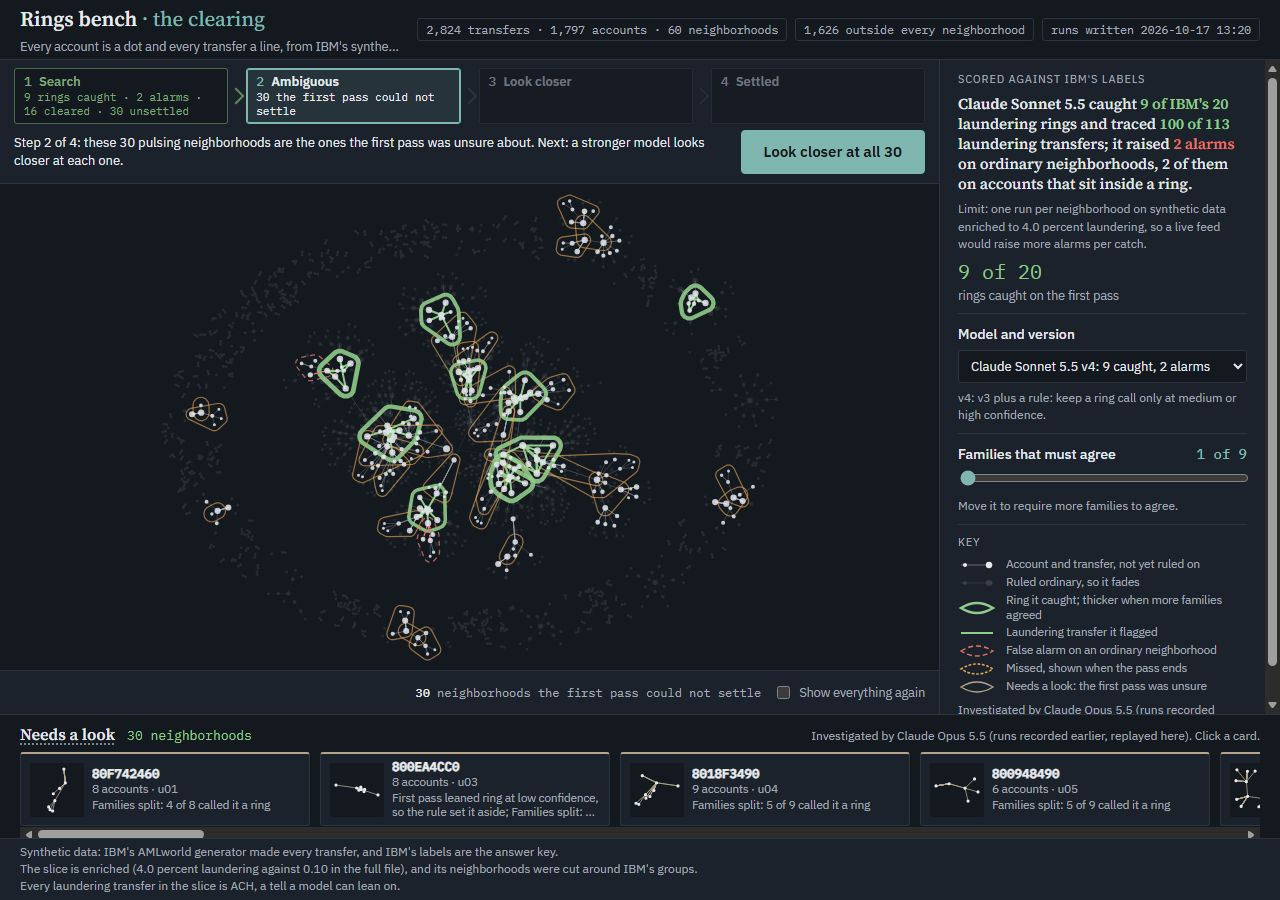
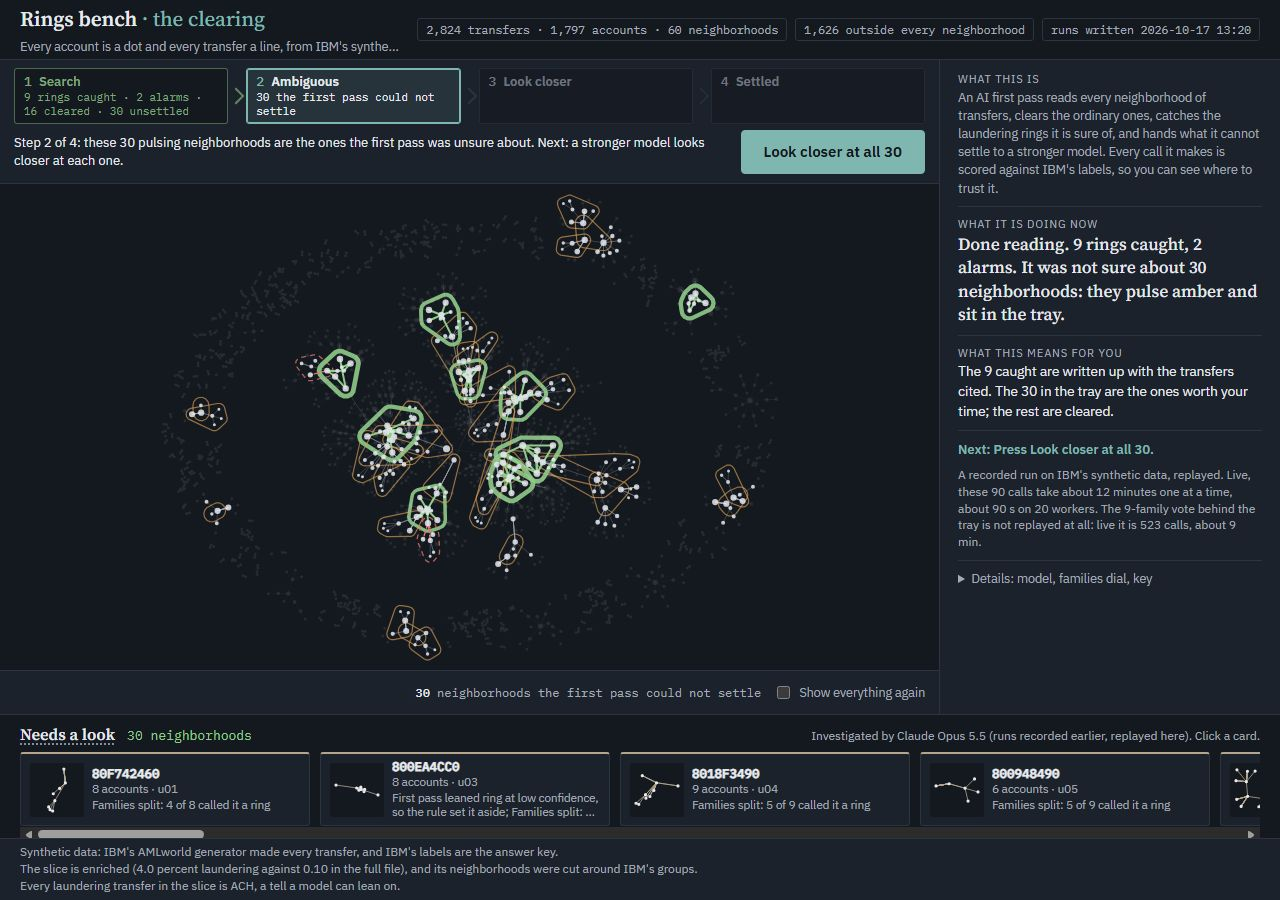
Side rail: what this is, what it is doing now, what it means for you, next; playback speed vs live; details collapsed

Changed region(s): [[0.75, 0.0622, 1.0, 0.7467], [0.75, 0.6222, 0.9375, 0.8089]]

diff --git a/rings_bench/ui/variants/clearing2d/clearing.js b/rings_bench/ui/variants/clearing2d/clearing.js
@@ -373,10 +373,10 @@ function renderClock() {
   const lookN = T.status.filter(x => x === 'look').length; const inv = Object.keys(INV).filter(id => landed(id, now)).length;
   let html;
   if (ST.stage === 0) html = 'The whole slice, lit · <b>' + UNITS.length + '</b> neighborhoods to read';
-  else if (ST.stage === 1) html = (ST.t < HOLD + FADE ? 'Transfers outside the neighborhoods step back' : 'Reading ' + esc((UNITS[Math.max(0, readN - 1)] || {}).id)) + ' · read <b>' + readN + ' of ' + UNITS.length + '</b>';
+  else if (ST.stage === 1) html = (ST.t < HOLD + FADE ? 'Transfers outside the neighborhoods step back' : 'Reading ' + esc((UNITS[Math.max(0, readN - 1)] || {}).id)) + ' · read <b>' + readN + ' of ' + UNITS.length + '</b> · ' + esc(speedLine(1));
   else if (ST.before) html = '<b>Before</b> · <b>' + lookN + '</b> neighborhoods the first pass could not settle';
   else if (ST.stage === 2) html = trayApplies(ST.sel) ? '<b>' + lookN + '</b> neighborhoods the first pass could not settle' : 'The tray is recorded for Claude Sonnet 5.5 v4 only';
-  else if (ST.stage === 3) html = 'Investigated <b>' + inv + ' of ' + lookN + '</b>';
+  else if (ST.stage === 3) html = 'Investigated <b>' + inv + ' of ' + lookN + '</b> · ' + esc(speedLine(3));
   else html = closingLine();
   $('#clock').innerHTML = html;
   renderFunnel();
@@ -395,6 +395,58 @@ function renderFunnel() {
   const human = s.k + (tray && INVD ? TRAY.filter(x => INVD.results && INVD.results[x.unit] && truthy(INVD.results[x.unit].ring_found)).length : 0);
   $('#fc4').textContent = box >= 4 ? human + ' rings for a human · ' + s.f + (s.f === 1 ? ' alarm' : ' alarms') + ' · ' + (NR - human) + ' missed' : '';
   $('#caption').textContent = captionText(lookN, human);
+  renderRail(lookN, human, caught, alarms, cleared, inv);
+}
+/* the side rail: what this is, what it is doing now, what it means for you, what to press next */
+function renderRail(lookN, human, caught, alarms, cleared, inv) {
+  const s = ST.sel; const tray = trayApplies(s); const n = ST.before ? 2 : ST.stage;
+  const fa = tray && INVD && INVD.results ? TRAY.filter(x => x.expected !== 'ring' && INVD.results[x.unit] && INVD.results[x.unit].verdict === 'ring').length : 0;
+  let readN = 0; TL.read.forEach(r => { if (ST.t >= r) readN++; });
+  let now = '', tally = '', you = '', next = '';
+  if (n === 0) { now = 'Nothing read yet. ' + UNITS.length + ' neighborhoods, ' + num(TR.length) + ' transfers, all lit.'; you = 'Without this you read all ' + UNITS.length + '.'; next = 'Press Start the search.'; }
+  else if (n === 1) { now = 'Reading neighborhood ' + Math.max(1, readN) + ' of ' + UNITS.length + '. Ordinary ones fade. Rings it catches trace green in place.'; tally = 'caught ' + caught + ' · alarms ' + alarms + ' · cleared ' + cleared; you = 'Without this you read all ' + UNITS.length + '.'; next = ST.playing ? 'Watch it read, or press Skip to the end of the search.' : 'Press Continue the search.'; }
+  else if (n === 2) {
+    now = 'Done reading. ' + s.k + (s.k === 1 ? ' ring' : ' rings') + ' caught, ' + s.f + (s.f === 1 ? ' alarm' : ' alarms') + '.' + (tray ? ' It was not sure about ' + lookN + ' neighborhoods: they pulse amber and sit in the tray.' : '');
+    you = tray ? 'The ' + s.k + ' caught are written up with the transfers cited. The ' + lookN + ' in the tray are the ones worth your time; the rest are cleared.' : 'The ' + s.k + ' caught are written up with the transfers cited. The closer look is recorded for Claude Sonnet 5.5 v4; pick it under Details to continue.';
+    next = ST.before ? 'Switch to After to see them settled.' : tray ? 'Press Look closer at all ' + lookN + '.' : 'Pick Claude Sonnet 5.5 v4 under Details.';
+  }
+  else if (n === 3) { now = 'A stronger model is reading the ' + lookN + ', one at a time. Each is cleared or confirmed as a ring.'; tally = inv + ' of ' + lookN; you = 'Watch the tray shrink: cleared ones leave your list, confirmed ones join the rings.'; next = 'Watch the tray; it settles by itself.'; }
+  else {
+    const al = s.f + fa;
+    now = 'Settled. ' + human + ' rings and ' + al + (al === 1 ? ' alarm are' : ' alarms are') + ' what a person needs to look at. ' + (NR - human) + ' rings it never found ' + (ST.missedAt != null ? 'are shown dotted so you see the limit.' : 'can be shown dotted so you see the limit.');
+    you = 'Your morning: ' + human + ' rings with reasons, ' + al + (al === 1 ? ' alarm' : ' alarms') + ' to dismiss, nothing else. Click any ring to watch the money move. Click a card to read why.';
+    next = ST.missedAt == null ? 'Press Show what was missed.' : 'Start over, or pick another model under Details.';
+  }
+  const sp = n === 1 || n === 3 ? speedLine(n) : ''; $('#nowSpeed').textContent = sp; $('#nowSpeed').hidden = !sp;
+  $('#nowText').textContent = now; $('#nowTally').textContent = tally; $('#nowTally').hidden = !tally; $('#youText').textContent = you; $('#nextText').textContent = 'Next: ' + next;
+  $('#honestText').textContent = honestLine();
+}
+/* how much faster than a live run the playback is: live = 20 parallel calls, bounded by 60 calls a minute */
+const msOf = r => { const v = parseFloat(r && r.latency_ms); return isFinite(v) ? v : 0; };
+function liveSeconds(runs) { const sum = runs.reduce((a, r) => a + msOf(r), 0); return Math.max(sum / 20 / 1000, runs.length); }
+const fmtX = x => x < 10 ? x.toFixed(1) : String(Math.round(x));
+const fmtDur = sec => sec < 120 ? Math.round(sec) + ' s' : Math.round(sec / 60) + ' min';
+function speedLine(pass) {
+  const s = ST.sel; if (!s || !TL) return '';
+  if (pass === 1) { const live = liveSeconds(s.runs); const play = TL.passEnd / 1000; return 'Playback at about ' + fmtX(live / play) + 'x real time (a live run on 20 workers takes about ' + fmtDur(live) + ')'; }
+  if (pass === 3 && INVD && INVD.results) { const R = Object.values(INVD.results); const live = liveSeconds(R); const play = R.length * (HOP_MS + HOLD_MS + VERDICT_GAP) / 1000; return 'Playback at about ' + fmtX(live / play) + 'x real time (live about ' + fmtDur(live) + ')'; }
+  return '';
+}
+function voteClause() {
+  const pv = panelVer(ST.sel.ver); const V = pv && PA.versions[pv]; if (!V || !V.summary) return '';
+  const fams = V.summary.families || []; const runs = (BE.runs || []).filter(r => (r.version || 'v1') === pv && fams.includes(r.model) && r.verdict != null && r.verdict !== '');
+  if (!runs.length) return '';
+  return ' The ' + fams.length + '-family vote behind the tray is not replayed at all: live it is ' + runs.length + ' calls, about ' + fmtDur(liveSeconds(runs)) + '.';
+}
+let HONEST = null;
+function honestLine() {
+  if (HONEST != null) return HONEST;
+  const s = ST.sel; const ms = r => { const v = parseFloat(r && r.latency_ms); return isFinite(v) ? v : 0; };
+  let calls = s.runs.length, total = s.runs.reduce((a, r) => a + ms(r), 0); void msOf;
+  if (trayApplies(s) && INVD && INVD.results) { const R = Object.values(INVD.results); calls += R.length; total += R.reduce((a, r) => a + ms(r), 0); }
+  const one = Math.round(total / 60000), par = fmtDur(Math.max(total / 20 / 1000, calls));
+  HONEST = SAMPLE ? 'A SAMPLE network made up by the page; nothing here is a measurement.' : 'A recorded run on IBM\'s synthetic data, replayed. Live, these ' + calls + ' calls take about ' + one + (one === 1 ? ' minute' : ' minutes') + ' one at a time, about ' + par + ' on 20 workers.' + (trayApplies(s) ? voteClause() : '');
+  return HONEST;
 }
 function captionText(lookN, human) {
   const s = ST.sel; const tray = trayApplies(s);
@@ -624,7 +676,7 @@ function hoverHtml(g) {
 
 /* ---------- picker, badges, start ---------- */
 function select(id, ver) {
-  ST.sel = stats(id, ver); TL = buildTimeline(ST.sel); ST.END = TL.END; ST.dialOn = false;
+  ST.sel = stats(id, ver); HONEST = null; TL = buildTimeline(ST.sel); ST.END = TL.END; ST.dialOn = false;
   CARDS.forEach(el => el.remove()); CARDS.clear();
   renderHeadline(); renderDial(); const keep = ST.stage; stopPlay(); jumpTo(reduced() ? 4 : keep);
 }

diff --git a/rings_bench/ui/variants/clearing2d/index.html b/rings_bench/ui/variants/clearing2d/index.html
@@ -43,6 +43,25 @@
   </section>
 
   <aside class="rail">
+    <section class="r-block r-what">
+      <p class="eyebrow">What this is</p>
+      <p>An AI first pass reads every neighborhood of transfers, clears the ordinary ones, catches the laundering rings it is sure of, and hands what it cannot settle to a stronger model. Every call it makes is scored against IBM's labels, so you can see where to trust it.</p>
+    </section>
+    <section class="r-block r-now" aria-live="polite">
+      <p class="eyebrow">What it is doing now</p>
+      <p class="now" id="nowText"></p>
+      <p class="tally mono" id="nowTally"></p>
+      <p class="speed" id="nowSpeed"></p>
+    </section>
+    <section class="r-block r-you">
+      <p class="eyebrow">What this means for you</p>
+      <p id="youText"></p>
+    </section>
+    <p class="r-next" id="nextText"></p>
+    <p class="r-honest small muted" id="honestText"></p>
+    <details class="r-details">
+      <summary>Details: model, families dial, key</summary>
+
     <div class="result">
       <p class="eyebrow">Scored against IBM's labels</p>
       <h2 id="headline"></h2>
@@ -70,6 +89,7 @@
       <div class="lg"><svg width="38" height="16" aria-hidden="true"><path d="M3 8 Q19 -2 35 8 Q19 18 3 8Z" fill="none" stroke="#B3A68C" stroke-width="1.4"/></svg><span>Needs a look: the first pass was unsure</span></div>
       <p class="small muted keynote">Investigated by Claude Opus 5.5 (runs recorded earlier, replayed here).</p>
     </div>
+    </details>
   </aside>
 </div>
 

diff --git a/rings_bench/ui/variants/clearing2d/clearing.css b/rings_bench/ui/variants/clearing2d/clearing.css
@@ -162,3 +162,19 @@ select { width: 100%; font: 13px var(--sans); color: var(--ink); background: var
 @keyframes cta-once { 0% { transform: scale(1); } 40% { transform: scale(1.06); } 100% { transform: scale(1); } }
 @media (prefers-reduced-motion: reduce) and (min-width: 99999px) { .btn.cta { animation: none; } }
 .ba .seg button.on { background: rgba(127,183,176,.16); color: var(--ink); box-shadow: inset 0 -2px 0 var(--accent); }
+
+/* the side rail: what this is, what it is doing now, what it means for you, next */
+.r-block p { margin: 0; }
+.r-what p:last-child { font-size: 12.5px; color: var(--muted); line-height: 1.45; }
+.r-now { border-top: 1px solid var(--rule); padding-top: 10px; }
+.r-now .now { font: 500 17px/1.38 var(--serif); color: var(--ink); }
+.r-now .tally { margin-top: 6px; font-size: 13px; color: var(--ok); }
+.r-now .speed { margin-top: 4px; font-size: 12px; color: var(--accent); }
+.r-you { border-top: 1px solid var(--rule); padding-top: 10px; }
+.r-you p:last-child { font-size: 13.5px; line-height: 1.45; color: var(--ink); }
+.r-next { margin: 0; font: 600 13px var(--sans); color: var(--accent); border-top: 1px solid var(--rule); padding-top: 10px; }
+.r-honest { margin: 0; line-height: 1.4; }
+.r-details { border-top: 1px solid var(--rule); padding-top: 8px; }
+.r-details summary { cursor: pointer; font-size: 12.5px; color: var(--muted); }
+.r-details[open] summary { margin-bottom: 10px; }
+.r-details > div { margin-top: 10px; }

diff --git a/rings_bench/ui/variants/clearing2d/README.md b/rings_bench/ui/variants/clearing2d/README.md
@@ -6,6 +6,10 @@ To open it, double-click `index.html`. It reads `../../../data/` (slice, units, 
 
 The whole slice starts lit, the real graph, and the first pass reads the 60 neighborhoods one by one: each one it rules ordinary fades, and each ring it catches traces green in place. The neighborhoods it could not settle stay lit and drop into a "Needs a look" tray, and a stronger model looks closer at them one card at a time, so each one either fades as cleared or closes green as a ring. What remains is what is worth a look: the rings caught, the two alarms, and, on request, the rings both passes missed in amber dotted.
 
+## The side rail
+
+From top to bottom: What this is (two fixed lines); What it is doing now (large text that changes with the step and counts up live during the passes); What this means for you (plain, second person); Next (mirrors the button); one honest line, computed from the recorded latencies ("these 90 calls take about 12 minutes one at a time, about 35 seconds on 20 workers"); then Details, collapsed by default, which holds the model picker, the families dial, the key, the investigator note and the scored headline with its limit line. The rail fits 1280 by 900 without scrolling at every step with Details closed.
+
 ## The action flow
 
 A plain load opens at the beginning: step 1, before the search, with the graph fully lit and the tray empty. Above the graph is a four-box funnel (Search, Ambiguous, Look closer, Settled), joined by arrows. Each box carries a live count computed from the data and is blank until that step is reached. The current box is lit, finished boxes are dim green and future boxes are grey; clicking a box jumps to the end of that step. Under the funnel, one caption says what is happening now and what the button does next. The one primary button (44 px, accent fill, one pulse on load) always names the next action: Start the search, Look closer at all 30, Show what was missed, Start over. The model picker and the families dial stay in the side rail as secondary controls.
